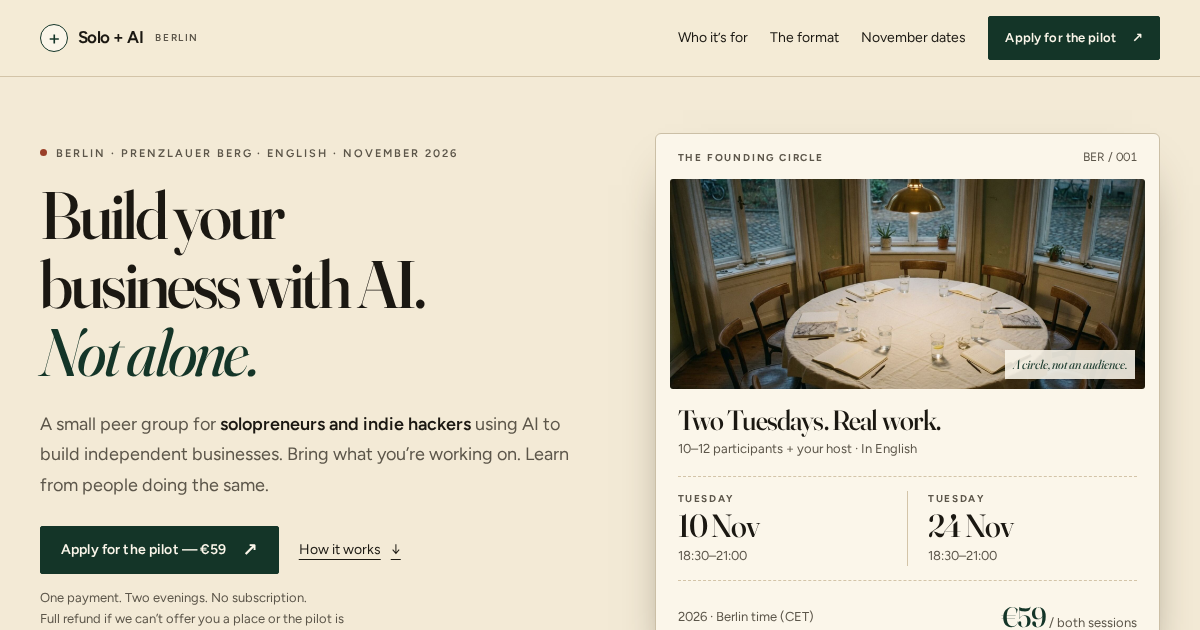
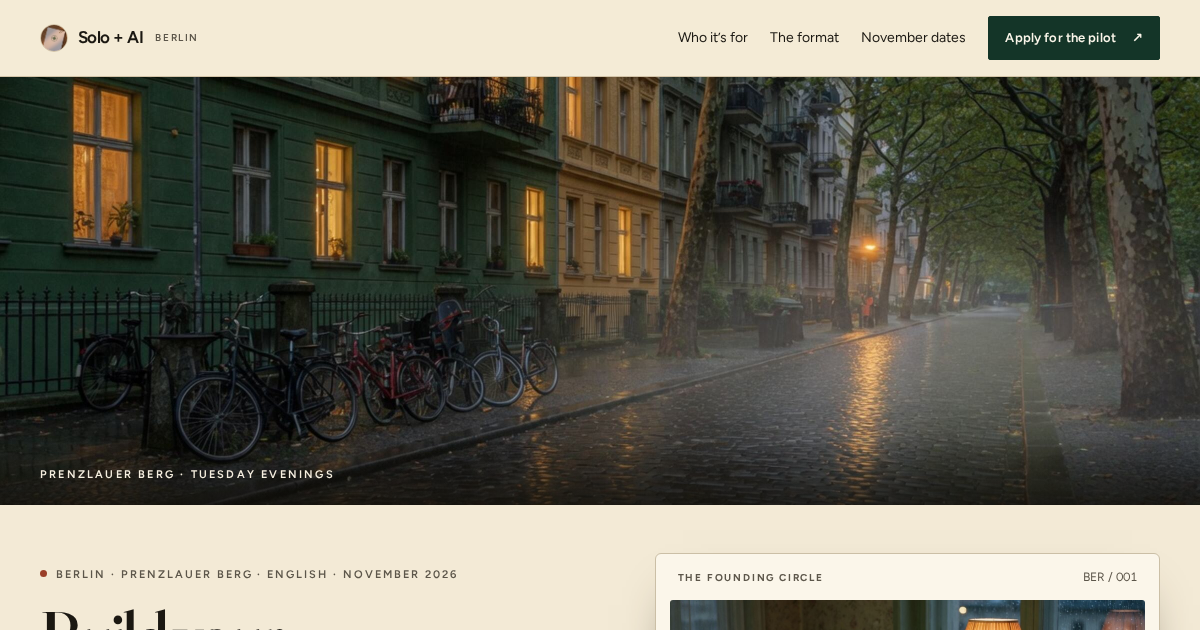
Add a full-bleed Prenzlauer Berg hero and matching salon stills.
Street dusk opens the page; the ticket, format band, and host section
use generated table, courtyard, and desk photographs.

diff --git a/index.html b/index.html
@@ -28,6 +28,10 @@
 </div></header>
 <noscript><div class="noscript">You can read everything below without JavaScript. The application form needs JavaScript to validate your answers and continue to payment.</div></noscript>
 <main id="main">
+<section class="hero-bleed">
+  <img src="/assets/hero.jpg" width="2400" height="1350" alt="A rain-wet Prenzlauer Berg street at dusk, Altbau windows lit gold, bicycles along the fence.">
+  <p class="hero-bleed-caption">Prenzlauer Berg · Tuesday evenings</p>
+</section>
 <div class="wrap">
 <div class="status-banner" id="return-banner" hidden tabindex="-1"><h2>Your place is not confirmed yet.</h2><p>If you completed payment on Stripe, we’ll match it to your application and review your answers. A return to this page is not proof of payment. We’ll email the decision; the pilot and venue will be confirmed by 3 November 2026.</p></div>
 <section class="hero" aria-labelledby="hero-title">
@@ -40,7 +44,7 @@
 </div>
 <aside class="ticket" aria-label="Founding pilot: 10 and 24 November 2026, 18:30 to 21:00 Berlin time. 59 euros total for both sessions.">
 <div class="ticket-head"><span class="ticket-label">THE FOUNDING CIRCLE</span><span class="ticket-no">BER / 001</span></div>
-<div class="ticket-photo"><img src="/assets/salon.jpg" width="640" height="480" alt="A round table of empty chairs in a Berlin room at dusk."><span class="motif-note">A circle, not an audience.</span></div>
+<div class="ticket-photo"><img src="/assets/table.jpg" width="800" height="533" alt="A round table of notebooks and empty chairs by a rain-wet Berlin window."><span class="motif-note">A circle, not an audience.</span></div>
 <h2 class="ticket-title">Two Tuesdays. Real work.</h2><p class="ticket-sub">10–12 participants + your host · In English</p>
 <div class="ticket-dates"><div class="ticket-date"><div class="day">TUESDAY</div><div class="date">10 Nov</div><div class="time">18:30–21:00</div></div><div class="ticket-date"><div class="day">TUESDAY</div><div class="date">24 Nov</div><div class="time">18:30–21:00</div></div></div>
 <div class="ticket-bottom"><span>2026 · Berlin time (CET)</span><span><strong>€59</strong> / both sessions</span></div>
@@ -57,7 +61,11 @@
 </div>
 <div class="fit-note"><span class="plus" aria-hidden="true">+</span><p><strong>Not strictly a solopreneur?</strong> Independent consultants and owners of intentionally small businesses are welcome too. The shared focus is a real project, practical AI use, and a willingness to contribute—not a particular job title.</p></div>
 </div></section>
-<section class="section format-section" id="format"><div class="wrap">
+<section class="section format-section" id="format">
+<figure class="format-bleed">
+  <img src="/assets/courtyard.jpg" width="2000" height="1125" alt="A Berlin courtyard salon with a round table, open windows, and bicycles in the rain.">
+</figure>
+<div class="wrap">
 <div class="section-intro"><div><p class="eyebrow">02 / The format</p><h2>A peer group.<br>Not another course.</h2></div><p>No stage. No teacher–student split. A consistent group working through real decisions, sharing what works—and what doesn’t.</p></div>
 <div class="format-grid"><article class="format-step"><p class="step-label">Bring the work</p><h3>Show something real.</h3><p>An AI workflow, a product experiment, a customer test, or a process you’ve improved. A rough demo is more useful here than a polished pitch.</p></article><article class="format-step"><p class="step-label">Think together</p><h3>Get specific feedback.</h3><p>Work through a business challenge with people who have different experience. Ask questions, challenge assumptions, and offer practical help.</p></article><article class="format-step"><p class="step-label">Come back to it</p><h3>Try. Learn. Compare.</h3><p>Choose a next experiment. Use the private group chat between sessions. Meet again two weeks later and share what actually happened.</p></article></div>
 <div class="format-footer"><p>Everyone comes to learn. Everyone brings something.</p><span>No unsolicited selling. No recording or AI transcription without everyone’s permission.</span></div>
@@ -69,7 +77,7 @@
 <p class="venue-note"><span aria-hidden="true">↗</span><span><strong>Mitte or Prenzlauer Berg.</strong> A private room, exact venue not yet booked. We’ll confirm the location and access information by 3 November. If we can’t confirm the group and venue, everyone receives a full refund.</span></p>
 <div class="timeline"><div><span>Complete your application + payment</span><strong>By 1 November · 23:59 CET</strong></div><div><span>Group &amp; venue confirmed</span><strong>By 3 November · 18:00 CET</strong></div><div><span>Minimum to launch</span><strong>10 approved, paid participants</strong></div></div>
 </div></section>
-<section class="section" id="host"><div class="wrap host-layout"><div><p class="eyebrow">04 / Your host</p><h2>Hi, I’m Alexey.<br>I’m building, too.</h2><div class="host-label"><img class="host-still" src="/assets/mark.jpg" width="72" height="72" alt="Letterpress plus mark on cotton paper."><div><strong>Alexey Grigorev</strong><small>Independent founder · Berlin</small></div></div></div><div class="host-body"><p>I’ve run my own business since 2020. It has been profitable for about four and a half years, and I’ve been fully self-employed for about three and a half years.</p><p>I’m still launching new things and exploring how AI can help me build and run a business independently. I’d like people nearby to compare notes with—not just another feed to scroll through.</p><p>I’ll organise and facilitate the group, but I’m joining as a fellow founder, not as the person with all the answers.</p><blockquote>“Building independently shouldn’t mean figuring everything out on your own.”</blockquote></div></div></section>
+<section class="section" id="host"><div class="wrap host-layout"><div><p class="eyebrow">04 / Your host</p><h2>Hi, I’m Alexey.<br>I’m building, too.</h2><figure class="host-photo"><img src="/assets/desk.jpg" width="1200" height="900" alt="An independent founder’s desk in Berlin at night: notebook, lamp, and a closed laptop."></figure><div class="host-label"><img class="host-still" src="/assets/mark.jpg" width="72" height="72" alt="Letterpress plus mark on cotton paper."><div><strong>Alexey Grigorev</strong><small>Independent founder · Berlin</small></div></div></div><div class="host-body"><p>I’ve run my own business since 2020. It has been profitable for about four and a half years, and I’ve been fully self-employed for about three and a half years.</p><p>I’m still launching new things and exploring how AI can help me build and run a business independently. I’d like people nearby to compare notes with—not just another feed to scroll through.</p><p>I’ll organise and facilitate the group, but I’m joining as a fellow founder, not as the person with all the answers.</p><blockquote>“Building independently shouldn’t mean figuring everything out on your own.”</blockquote></div></div></section>
 <section class="section price-section" id="pilot"><div class="wrap price-layout"><div><p class="eyebrow">05 / Member-funded. Member-shaped.</p><h2>A small commitment.<br>A shared starting point.</h2><p class="price-story">We’re starting with a two-session pilot, not a long membership. Join the same small group twice, contribute to the conversations, and see whether it’s worth continuing.</p><p class="why-paid"><strong>Why it’s paid:</strong> your fee supports a private venue and the work of organising the group. That lets us set our own agenda without relying on sponsors. Future membership, if any, will be a separate decision.</p></div><div class="price-card"><div class="price-card-header"><p class="eyebrow">FOUNDING PILOT / NOV 2026</p><span class="pill">One-time payment</span></div><p class="price-number"><span>€</span>59</p><p class="price-caption">Total price for the full pilot. No automatic renewal.</p><ul class="included"><li>Two 2.5-hour in-person sessions: 10 &amp; 24 November</li><li>The same group of 10–12 participants, plus your host</li><li>Private group chat during the November pilot</li><li>Facilitated peer feedback and practical AI discussions</li></ul><a class="btn" href="#apply">Apply for the founding pilot <span class="arrow" aria-hidden="true">↗</span></a><p class="refund-note"><strong>Payment is required to complete your application.</strong> It does not guarantee a place. If we decline your application, the group is full, fewer than 10 approved, paid participants are confirmed, or we cancel the pilot, you receive a full refund. No fees deducted.</p></div></div></section>
 <section class="section" id="faq"><div class="wrap faq-layout"><div><p class="eyebrow">06 / Good questions</p><h2>Before you apply.</h2></div><div class="faq-list">
 <details><summary>Do I need a profitable business or an AI product?</summary><p>No. A concrete business project and real action matter more than revenue. You might be testing a service, validating an idea, or running an established business. You don’t need to build an AI product, but you should be using AI or testing a specific application of it in your work.</p></details>

diff --git a/assets/site.css b/assets/site.css
@@ -67,7 +67,10 @@ p+p{margin-top:14px}
 .arrow{font-size:18px;line-height:1}
 .text-link{display:inline-flex;align-items:center;gap:10px;font-size:14px;text-decoration:underline;text-underline-offset:5px;min-height:44px}
 
-.hero{display:grid;grid-template-columns:1.05fr .95fr;align-items:center;gap:56px;padding:56px 0 36px}
+.hero-bleed{position:relative;height:min(58vh,640px);min-height:340px;overflow:hidden;background:#12160f}
+.hero-bleed img{width:100%;height:100%;object-fit:cover;object-position:center 62%;display:block}
+.hero-bleed-caption{position:absolute;left:0;right:0;bottom:0;margin:0;padding:28px max(32px,calc((100% - var(--max))/2)) 22px;background:linear-gradient(transparent,rgba(18,16,10,.72));color:#f6efe0;font-size:11px;letter-spacing:.2em;text-transform:uppercase;font-weight:600}
+.hero{display:grid;grid-template-columns:1.05fr .95fr;align-items:center;gap:56px;padding:48px 0 36px}
 .hero h1{font-size:clamp(46px,5.6vw,76px);font-weight:500;letter-spacing:-.045em;line-height:1.02;margin-top:18px}
 .hero h1 em{font-style:italic;font-weight:400;color:var(--green);letter-spacing:-.04em}
 .hero .lead{margin-top:22px;color:var(--muted);max-width:34em;font-size:18px;line-height:1.7}
@@ -109,7 +112,10 @@ p+p{margin-top:14px}
 .fit-note p{font-size:15px;line-height:1.65}
 .fit-note strong{font-weight:650}
 
-.format-section{background:var(--green);color:var(--white);border-top:0;position:relative;padding:48px 0}
+.format-section{background:var(--green);color:var(--white);border-top:0;position:relative;padding:0 0 48px}
+.format-bleed{margin:0;height:min(42vh,420px);overflow:hidden}
+.format-bleed img{width:100%;height:100%;object-fit:cover;object-position:center 55%;display:block}
+.format-section .wrap{padding-top:40px}
 .format-section .section-intro{grid-template-columns:1fr;max-width:36rem;gap:12px;margin-bottom:28px}
 .format-section .eyebrow{color:var(--lime)}
 .format-section .section-intro>p{color:#d5ddcf}
@@ -145,6 +151,8 @@ p+p{margin-top:14px}
 .host-layout{display:grid;grid-template-columns:.9fr 1.1fr;gap:48px;align-items:start}
 .host-layout h2{margin:12px 0 16px}
 .host-label{display:inline-flex;gap:12px;align-items:center;margin-top:8px}
+.host-photo{margin:18px 0 16px}
+.host-photo img{width:100%;aspect-ratio:4/3;object-fit:cover;display:block;border:1px solid var(--line)}
 .host-still{width:72px;height:72px;object-fit:cover;border:1px solid var(--line)}
 .monogram{display:none}
 .host-label strong{display:block;font-size:14px;line-height:1.4}
@@ -278,6 +286,8 @@ p+p{margin-top:14px}
   .nav .btn{display:none}
   .legal-page .nav-links>a{display:inline-flex;font-size:12px;min-height:44px}
   .btn-small,.nav .btn,.mobile-cta .btn,.form-actions .btn{min-height:44px}
+  .hero-bleed{height:46vh;min-height:260px}
+  .format-bleed{height:220px}
   .hero{grid-template-columns:1fr;gap:28px;padding:32px 0 24px}
   .hero h1{font-size:clamp(42px,11vw,58px);margin-top:14px}
   .ticket-photo{height:180px}
